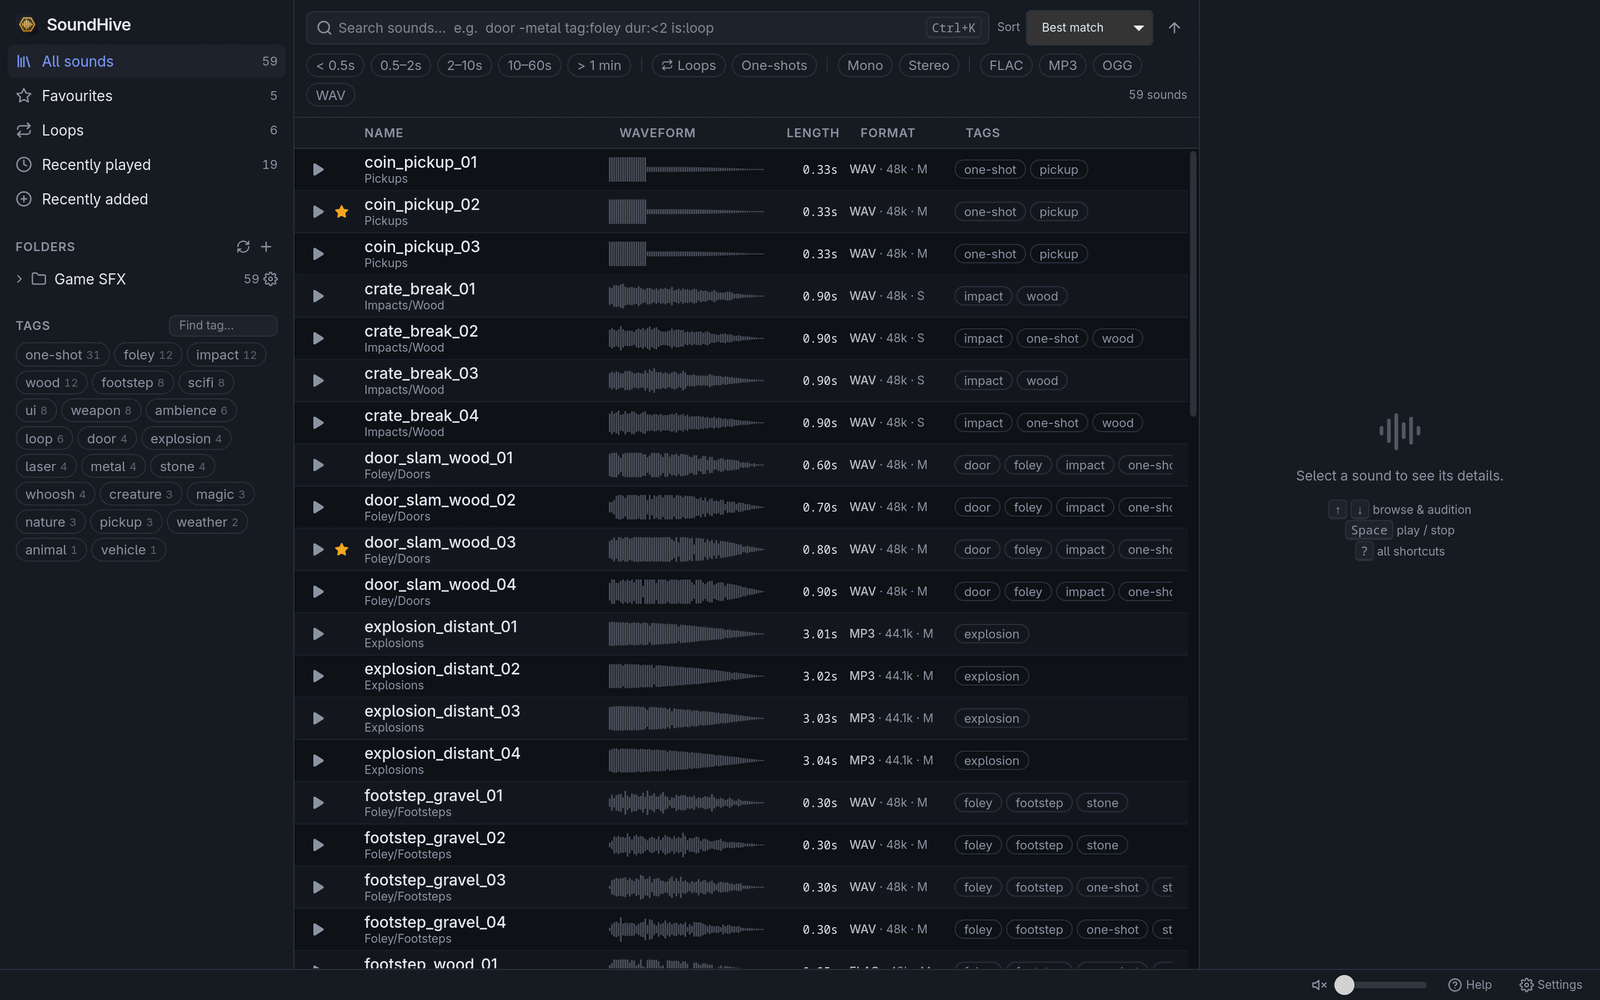
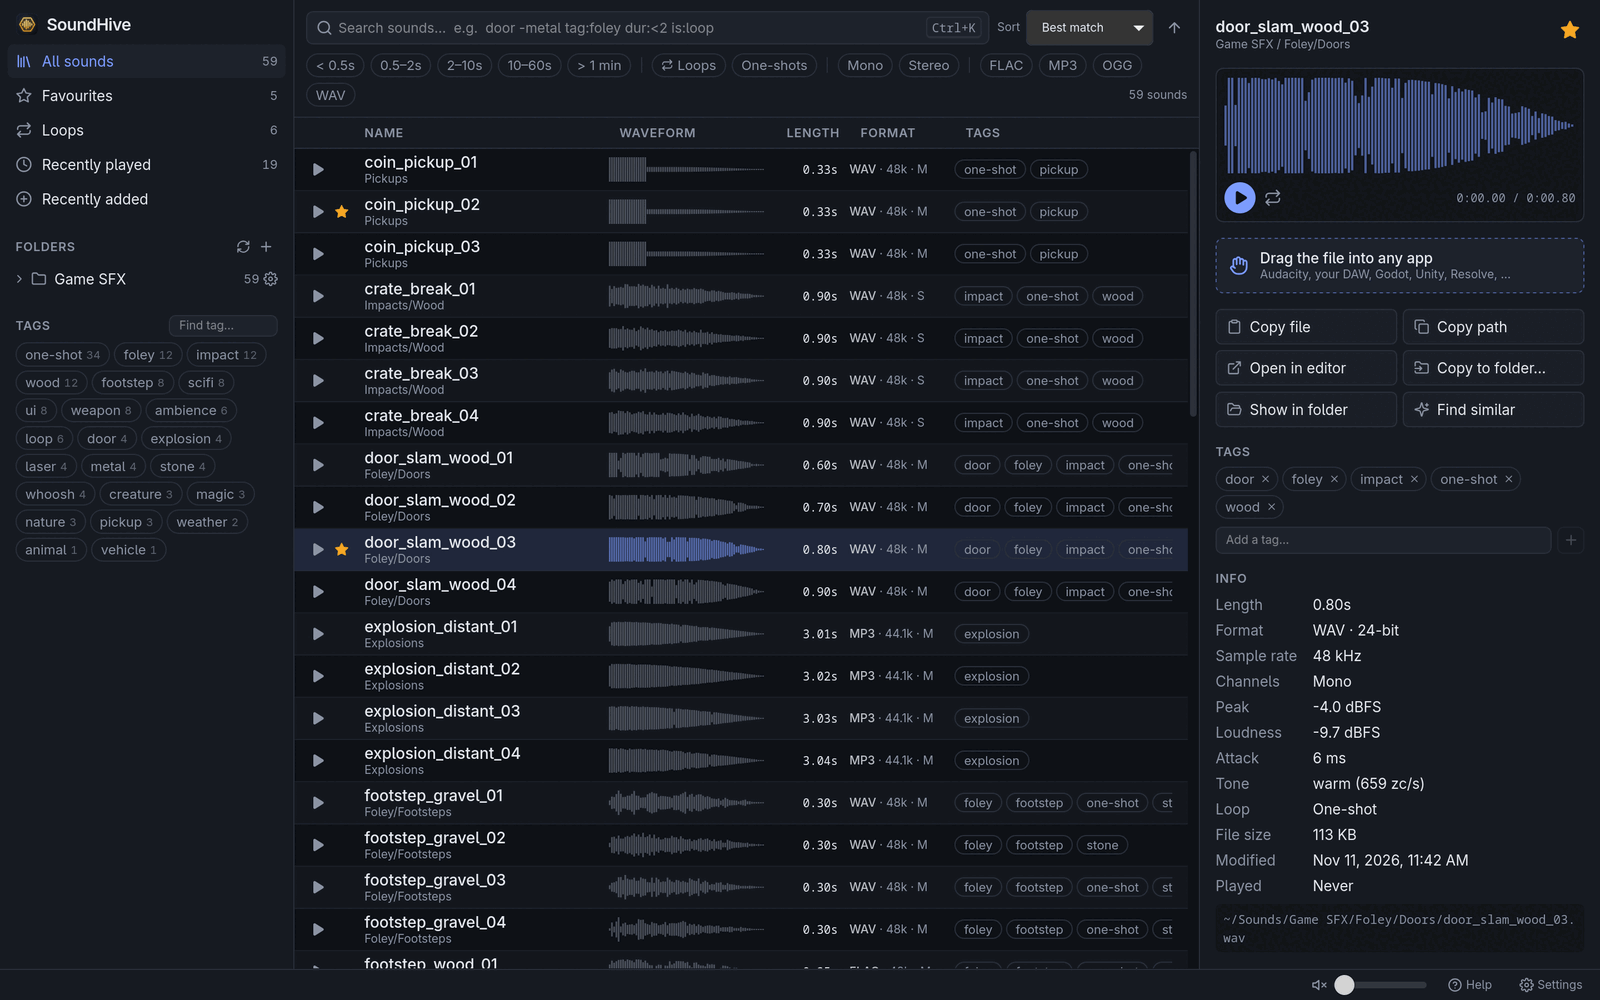
Show a selected sound, a search and a multi-selection in the README

diff --git a/README.md b/README.md
@@ -57,6 +57,10 @@ Search across names, folders, tags and embedded descriptions – and narrow it d
 door slam -metal tag:foley ext:wav dur:<2 is:loop
 ```
 
+<p align="center">
+  <img src="docs/images/search.png" alt="Searching for tag:weapon dur:<1 narrows the library down to four laser shots" width="100%">
+</p>
+
 Filter by length, loops/one-shots, mono/stereo, file type, folder and tags with one click. Sort
 by name, length, loudness, brightness, date, size or how often you played a sound.
 
@@ -78,6 +82,10 @@ Found a sound that's *almost* right? Press `S` and SoundHive orders the library 
 other sounds are in length, loudness, punch, brightness, attack and tags.
 
 ### 📤 Getting sounds out
+
+<p align="center">
+  <img src="docs/images/multi-select.png" alt="Three footstep sounds selected, ready to drag into another app" width="100%">
+</p>
 
 - **Drag** rows into Audacity, a DAW, a game engine, a video editor or a folder.
 - **`Ctrl+C`** puts the *file* on the clipboard – paste it anywhere that accepts files.
